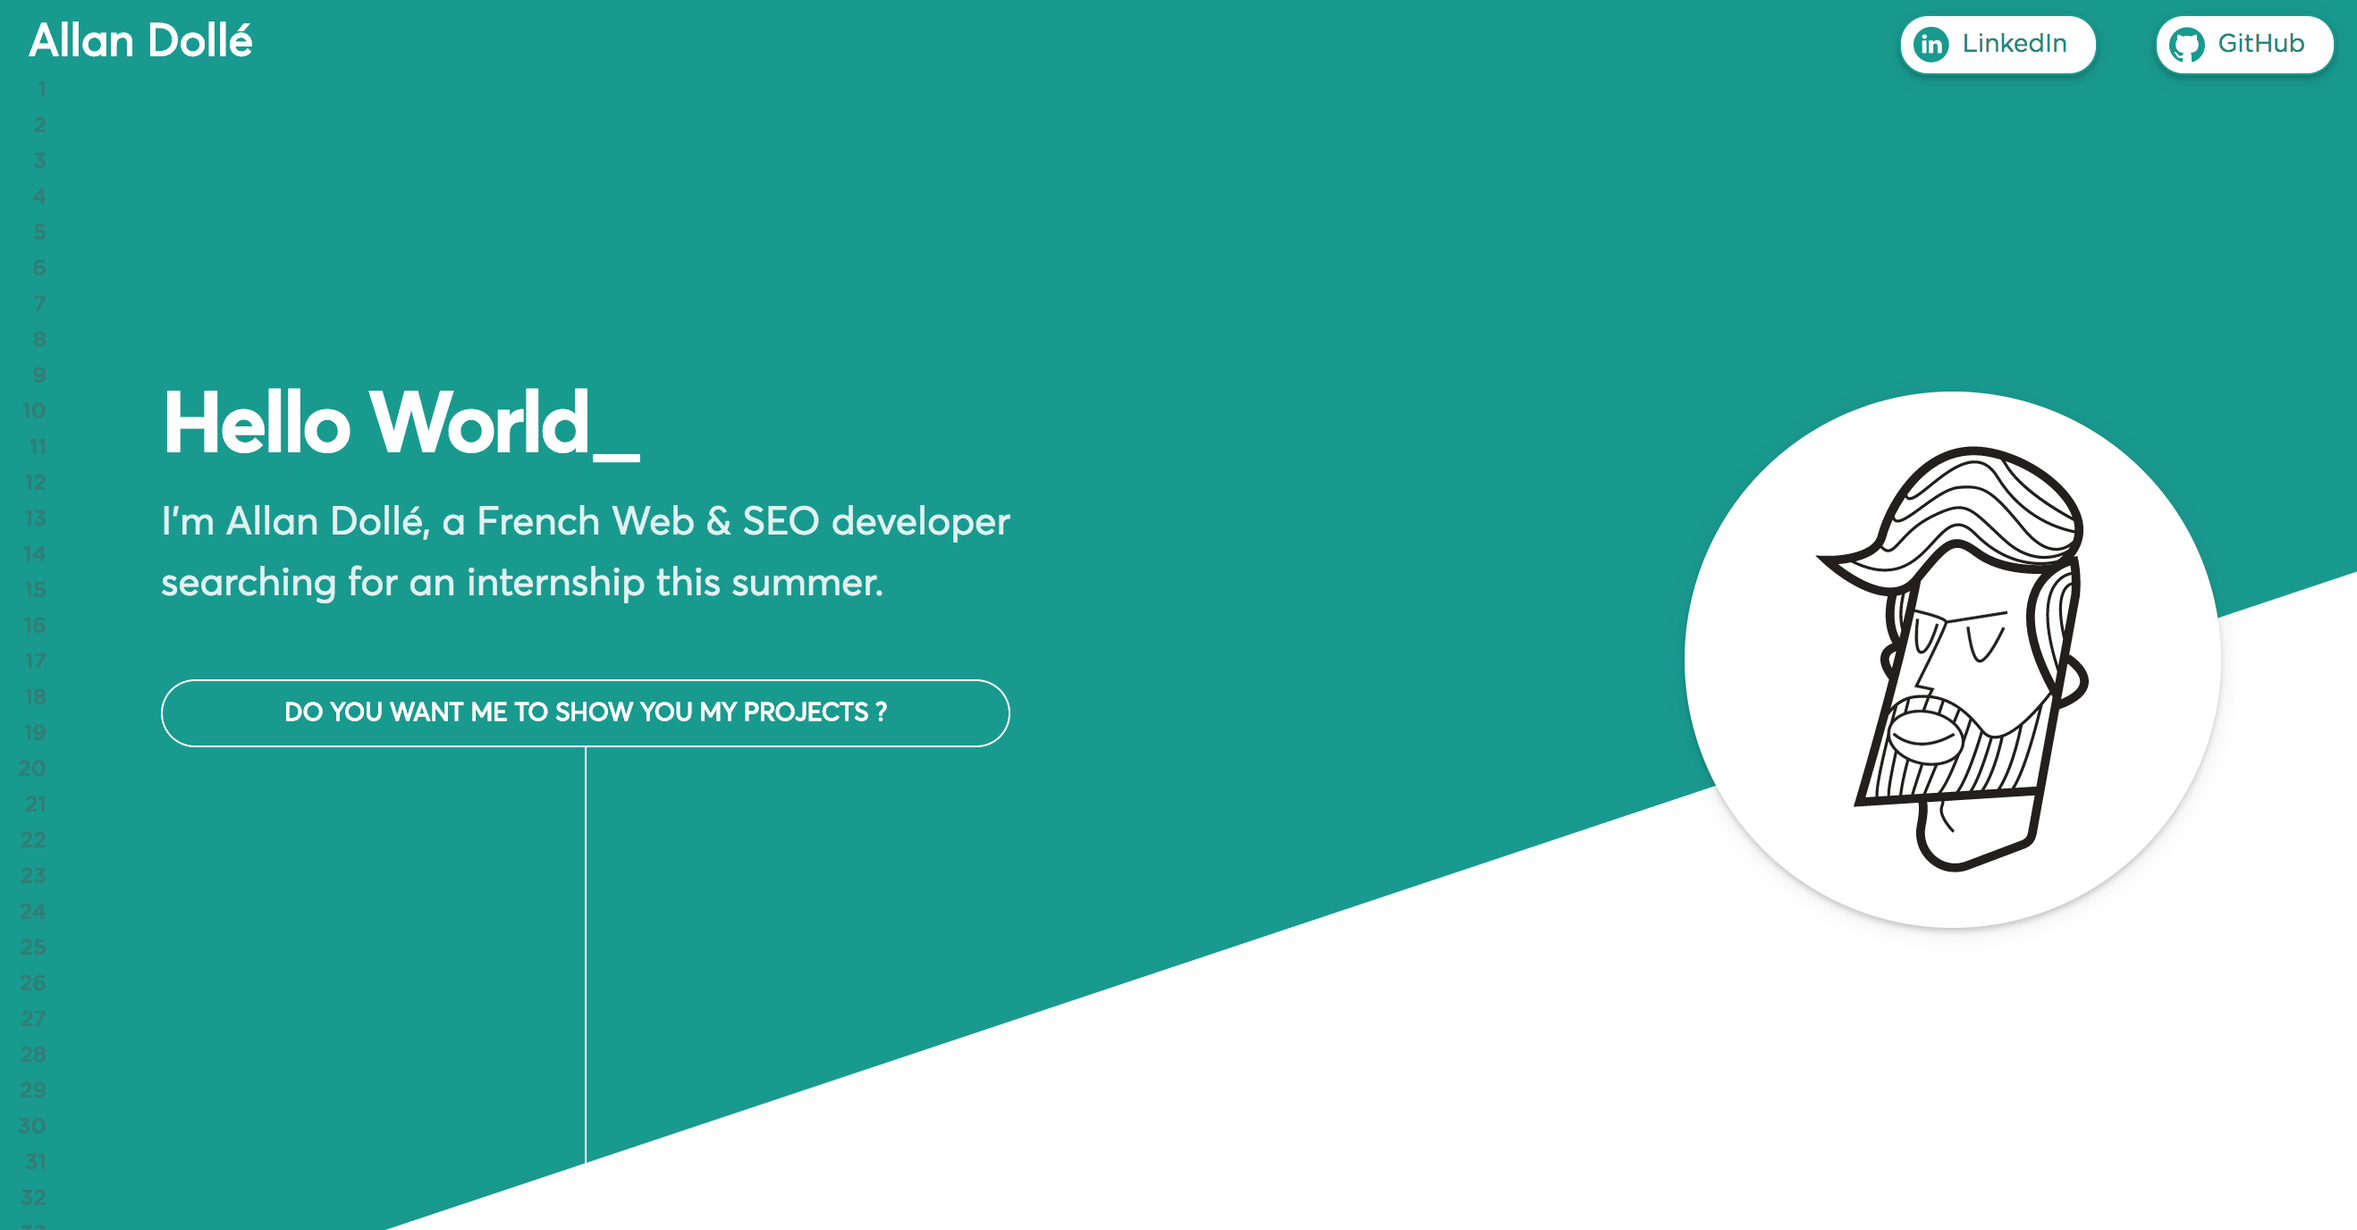
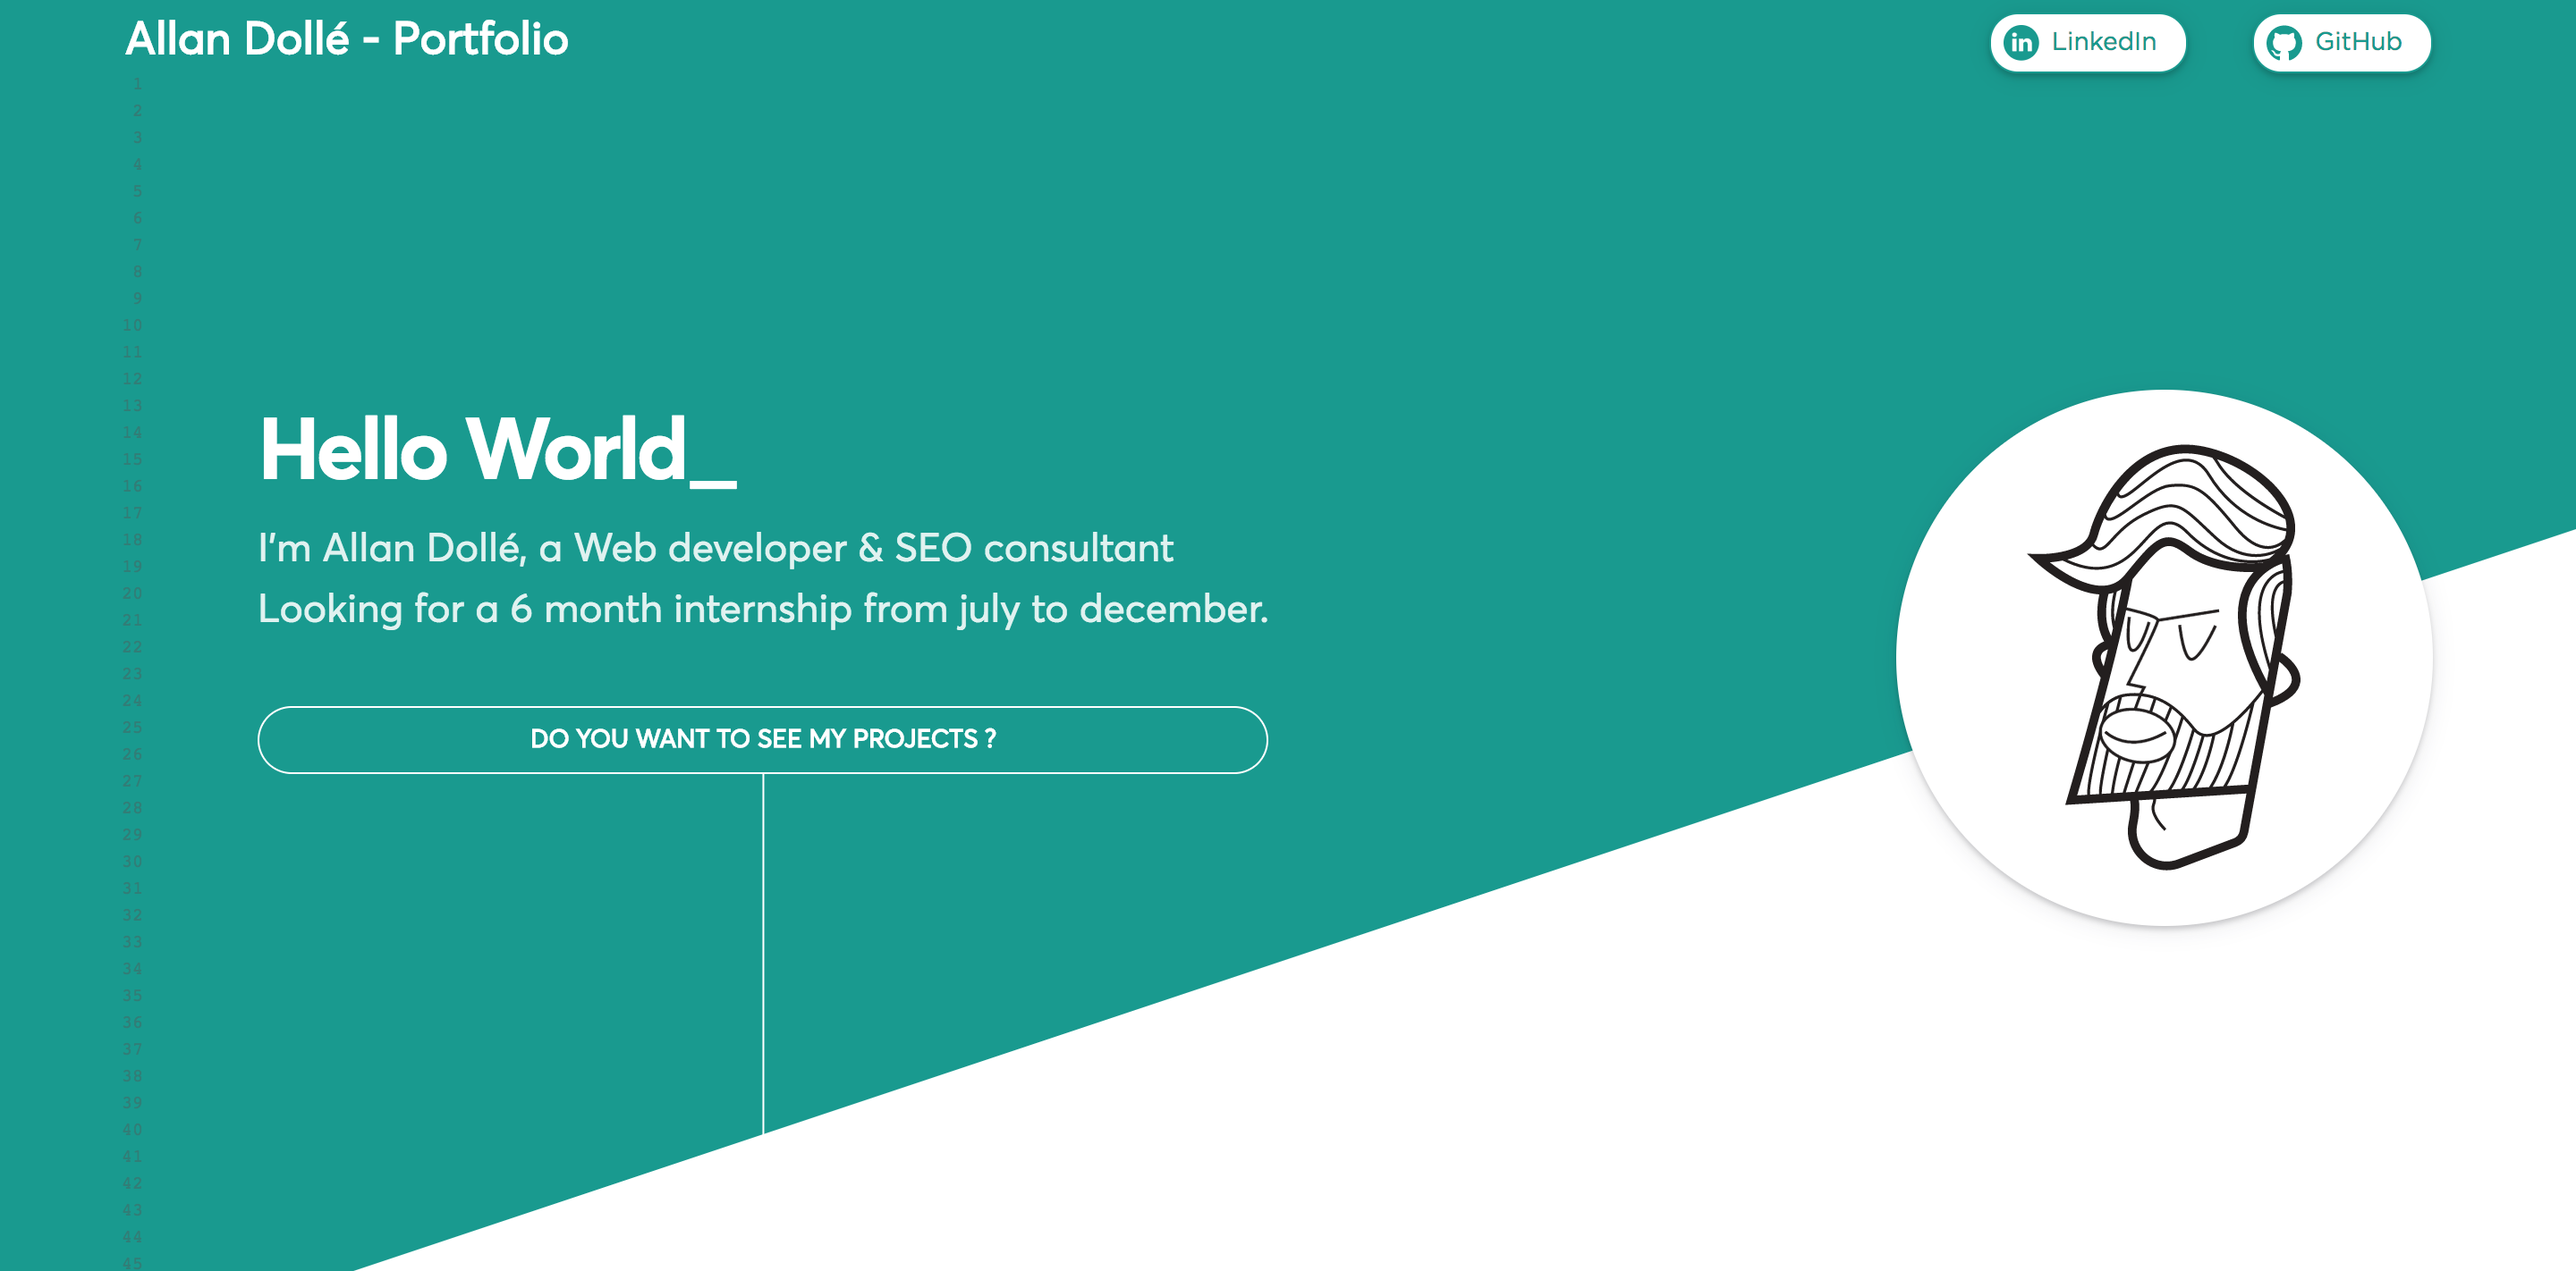
Some irrevelant change

diff --git a/app/scripts/custom.animation.js b/app/scripts/custom.animation.js
@@ -24,7 +24,7 @@ $(function() {
   console.log('! ! ! Document ready ! ! !');
   console.log('- - - W E L C O M - - -');
   // Animation Hello World typing
-  autoType(".type-js", 115, 500);
+  autoType(".type-js", 115, 700);
   // Write Numbers inside first <aside> element
   writeAsideNumbers(heightCalcule());
   // Initiate MagicScroll controller

diff --git a/app/index.html b/app/index.html
@@ -176,7 +176,7 @@
     <div id="geometric"></div>
     <section id="link">
       <div class="home">
-        <h2>Allan Dollé is portfolio</h2>
+        <h2>Allan Dollé - Portfolio</h2>
       </div>
       <ul>
         <li>
